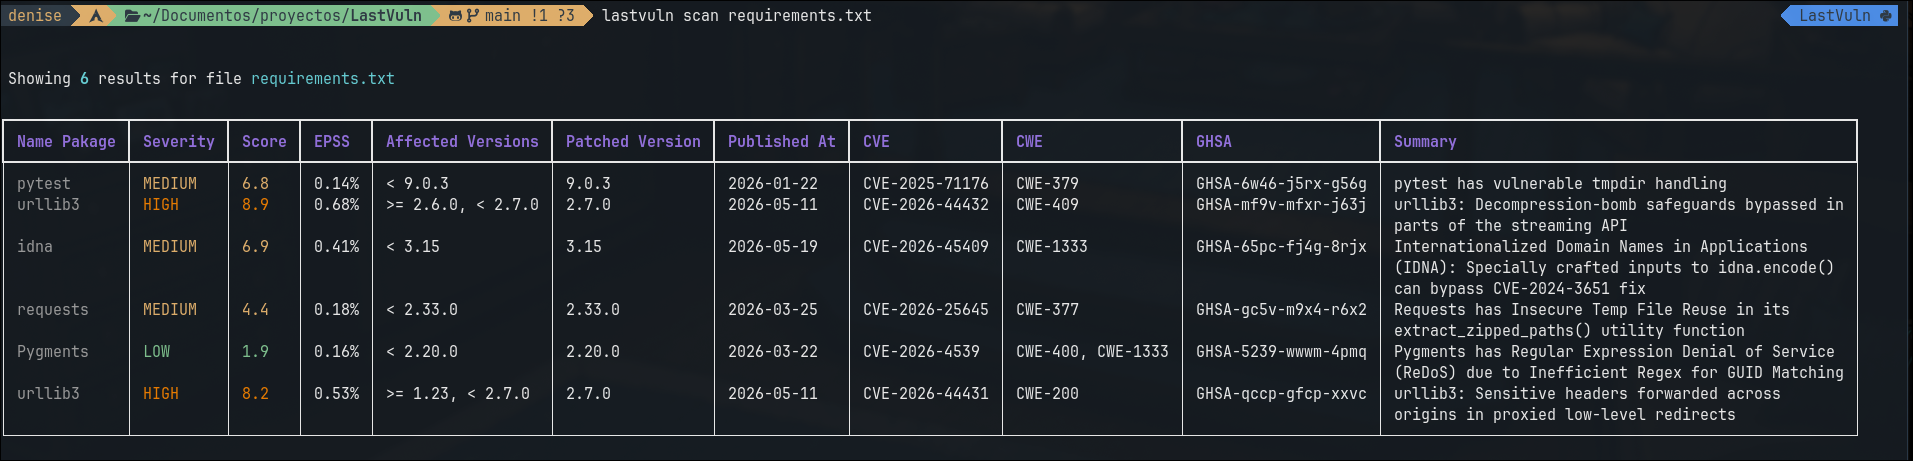
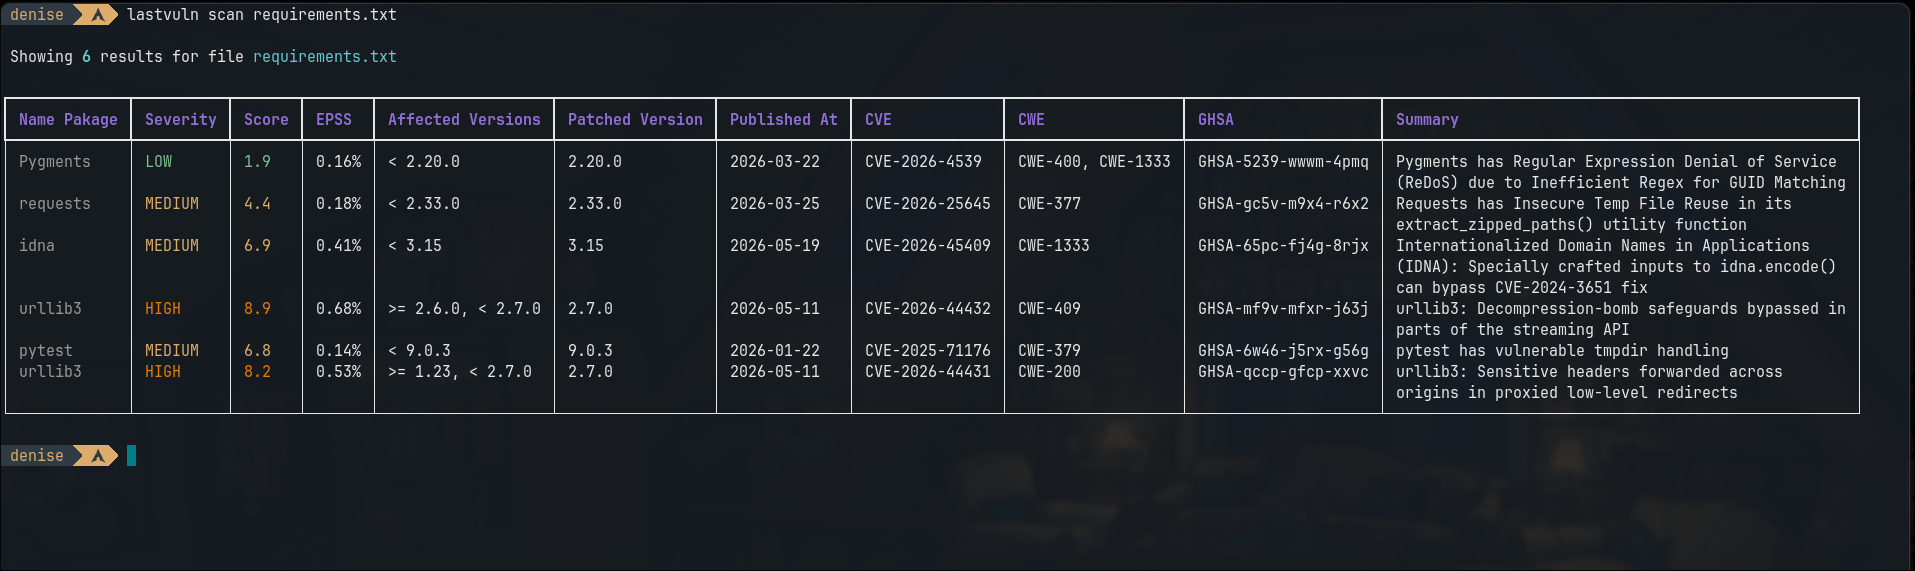
fix: improve screenshots and correct orthographic errors

diff --git a/README.md b/README.md
@@ -9,7 +9,7 @@ Investiga las últimas vulnerabilidades publicadas y escanea tus archivos de paq
 ## ¿Por qué Lastvuln CLI?
 
 Al desarrollar un proyecto, la selección y actualización de paquetes requiere mantener 
-un equilibrio entre estabilidad, compatibilidad y seguridad y las vulnerabilidades conocidas 
+un equilibrio entre estabilidad, compatibilidad y seguridad. Las vulnerabilidades conocidas 
 en librerías pueden convertirse en vectores de ataque si no son identificadas y gestionadas
 oportunamente.
 
@@ -29,7 +29,7 @@ sobre vulnerabilidades de paquetes y facilitar la toma de decisiones técnicas.
 - **Búsqueda por ecosistema:** muestra las últimas vulnerabilidades de un ecosistema determinado, 
 ordenadas por fecha de publicación.
 - **Búsqueda por paquete:** muestra las últimas vulnerabilidades del paquete indicado, ordenadas por fecha de publicación.
-- **Escaneo de archivos de paquetes:** escaneo de archivos de paquetes.
+- **Escaneo de archivos de paquetes.**
 - Integración con OSV API.
 - Integración con GitHub Advisory Database.
 - Caché local SQLite.
@@ -61,11 +61,13 @@ pip install -r requirements.txt
 
 ```bash
 lastvuln search [OPCIONES]
+```
 
+```bash
 lastvuln scan [OPCIONES] ARCHIVO 
 ```
 
-### Parámetros 
+### Opciones 
 
 | Corto | Largo | Tipo de búsqueda | Descripción |
 |:---|:--------------------------------------|:----------------------------|:---|
@@ -83,11 +85,17 @@ lastvuln scan [OPCIONES] ARCHIVO
 
 ```bash
 lastvuln search -e pip -p jinja2 -v 3.1.4
+```
 
+```bash
 lastvuln search -e npm -n 5 -x html
+```
 
+```bash
 lastvuln scan requirements.txt
+```
 
+```bash
 lastvuln scan pom.xml -x md -f report_maven
 ```
 

diff --git a/README.en.md b/README.en.md
@@ -28,7 +28,7 @@ relevant vulnerability information from packages and facilitating technical deci
 
 - **Search ecosystem:** Displays the latest vulnerabilities from a specific ecosystem, ordered by publication date.
 - **Search package:** Displays the latest vulnerabilities from a specific package, ordered by publication date.
-- **Scan dependency files:** Scans dependency files.
+- **Scan dependency files.**
 - Integration with OSV API.
 - Integration with GitHub Advisory Database.
 - Local SQLite cache.
@@ -60,11 +60,13 @@ pip install -r requirements.txt
 
 ```bash
 lastvuln search [OPTIONS]
+```
 
+```bash
 lastvuln scan [OPTIONS] FILE 
 ```
 
-### Params 
+### Options 
 
 | Short | Long | Search type | Description |
 |:---|:---|:---|:---|
@@ -82,11 +84,17 @@ lastvuln scan [OPTIONS] FILE
 
 ```bash
 lastvuln search -e pip -p jinja2 -v 3.1.4
+```
 
+```bash
 lastvuln search -e npm -n 5 -x html
+```
 
+```bash
 lastvuln scan requirements.txt
+```
 
+```bash
 lastvuln scan pom.xml -x md -f report_maven
 ```
 
